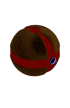
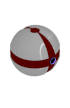
refactoring (lol)

Changed region(s): [[0.1429, 0.2222, 0.8571, 0.7222]]

diff --git a/main.py b/main.py
@@ -1,8 +1,6 @@
 # Import
 import pygame as pyg
 from pygame import Surface, joystick
-from pygame.sprite import Sprite, LayeredDirty, Group, LayeredUpdates
-from fps import Fps
 from constants import *
 
 def clear_callback(surf, rect):
@@ -13,50 +11,14 @@ def main():
     # Init module
     pyg.init()
     joystick.init()
-
-    # Get controller
-##    joysticks = [joystick.Joystick(x) for x in range(joystick.get_count())]
-##    try:
-##        controller = next(js for js in joysticks if "XBOX 360" in js.get_name())
-##    except StopIteration:
-##        raise RuntimeError("No XBOX 360 Controller detected")
-##    if not controller.get_init():
-##        controller.init()
-
-    # Init window
-    size_window = WINDOW_WIDTH,WINDOW_HEIGHT
-    screen = pyg.display.set_mode(size_window)#, FULLSCREEN)
-    ico = Surface((32,32))
-    pyg.display.set_icon(ico)
-    pyg.display.set_caption('Test')
-    background = pyg.image.load('background.jpg').convert()
-    background = pyg.transform.smoothscale(background, WINDOW_SIZE)
-    background.fill(WHITE)
-    screen.blit(background, background.get_rect())
-    pyg.display.flip()
-
     # Imports
-    from stage import Stage
-    from tiles import Tile
-    from player import Player
-
-    # Init clock
-    clock = pyg.time.Clock()
-
-    # Init groups
-    all_sprites = LayeredDirty()
-    players = Group()
-    Player.containers += players,
-    Fps.containers += all_sprites,
-    Tile.layer_container = all_sprites
-
-    # Init element
-    Stage("file.txt")
+    from Map import Map
+    # Init element, read the map, build the MapView
+    m = Map("file.txt")
     Fps(clock)
 
     # Infinite loop
     while True:
-
         # Get input
         for ev in pyg.event.get():
             if ev.type == pyg.QUIT or \
@@ -66,12 +28,14 @@ def main():
 
         # Do something
         #next(iter(players)).set_input()
+        
+        ActionHandeler.pushInput(input);
 
         # Clear sprites from screen
-        all_sprites.clear(screen, background)
+        m.vue.all_sprites.clear(screen, background)
 
         # Update sprites
-        all_sprites.update()
+        m.vue.all_sprites.update()
 
         # Draw sprites on screen
         dirty = all_sprites.draw(screen)
@@ -83,5 +47,5 @@ def main():
         clock.tick(30)
 
 
-# Call the "main" function if running this script
+ # Call the "main" function if running this script
 if __name__ == '__main__': main()

diff --git a/Map.py b/Map.py
@@ -1,0 +1,68 @@
+from xy import XY
+from MapVue import MapVue
+
+def parse(filename):
+    with open(filename) as f:
+        return [[int(x) for x in line.split(",")] for line in f]
+
+def add_border(mat):
+    res = [[-1] * (2 + len(mat[0]))]
+    for x in mat:
+        res.append([-1] + x + [-1])
+    res.append([-1] * (2 + len(mat[0])))
+    return res
+
+class Map:
+    dct = {-1: "borders",
+           1: "floors",
+           2: "goal1",
+           3: "goal2",
+           4: "p1",
+           5: "p2",
+           6: "blocks",
+           7: "hole",
+           8: "mirrorDU",
+           9: "mirrorUD",
+           10: "memory",
+           11: "p1Wall",
+           12: "p2Wall" }
+
+    def __init__(self, file_name):
+        self.vue = MapVue()
+
+        from Tiles import Block, Floor, Border, Tile
+
+        self.mat = add_border(parse(file_name))
+        self.width = Tile.nb_lines = len(self.mat)
+        self.height = len(self.mat[0])
+        self.blocks = []
+        self.floors = []
+        self.borders = []
+        self.p1 = []
+        self.p2 = []
+        for i, line in enumerate(self.mat):
+            for j, element in enumerate(line):
+                getattr(self, self.dct[element]).append((i,j))
+        self.p1 = self.p1[0]
+        self.p2 = self.p2[0]
+
+    def get_id(self, pos):
+        pos = XY(*pos)
+        return pos.x * self.width + pos.y
+
+
+# class Stage:
+#     def __init__(self, filename):
+#         self.board = Board(filename)
+#         for pos in self.board.blocks:
+#             Block(pos, self.board.get_id(pos))
+#         for pos in self.board.floors:
+#             Floor(pos, self.board.get_id(pos))
+#         for pos in self.board.borders:
+#             Border(pos, self.board.get_id(pos))
+#         args = 1, self.board.p1, self.board.get_id(self.board.p1)
+#         self.player1 = Player(*args)
+#         args = 2, self.board.p2, self.board.get_id(self.board.p2)
+#         self.player2 = Player(*args)
+
+

diff --git a/TileVue.py b/TileVue.py
@@ -5,7 +5,7 @@ from pygame.sprite import DirtySprite, Sprite
 
 from constants import *
 
-class Tile(DirtySprite):
+class TileVue(DirtySprite):
 
     width = 70
     layer_container = None
@@ -35,30 +35,30 @@ class Tile(DirtySprite):
         pos += self.width*self.nb_lines/2, 0
         return XY(*map(int,pos))
 
-class Block(Tile):
+class BlockVue(TileVue):
 
     ressource_name = "block.png"
-    ressource = Tile.resize_ressource(ressource_name)
+    ressource = TileVue.resize_ressource(ressource_name)
 
     def __init__(self, board_pos, board_id):
         self.board_pos = XY(*board_pos)
         super(Block, self).__init__(self.board_pos, board_id)
         self.image = self.ressource
 
-class Floor(Tile):
+class FloorVue(TileVue):
 
     ressource_name = "floor.png"
-    ressource = Tile.resize_ressource(ressource_name)
+    ressource = TileVue.resize_ressource(ressource_name)
 
     def __init__(self, board_pos, board_id):
         self.board_pos = XY(*board_pos)
         super(Floor, self).__init__(self.board_pos, board_id)
         self.image = self.ressource
 
-class Border(Tile):
+class BorderVue(TileVue):
 
     ressource_name = "border.png"
-    ressource = Tile.resize_ressource(ressource_name)
+    ressource = TileVue.resize_ressource(ressource_name)
 
     def __init__(self, board_pos, board_id):
         self.board_pos = XY(*board_pos)

diff --git a/Player.py b/Player.py
@@ -3,7 +3,7 @@ from pygame import Surface
 from pygame.sprite import Sprite, RenderUpdates, Group
 from constants import *
 from xy import XY
-from tiles import Tile
+from Tiles import Tile
 import os
 from itertools import takewhile, count, cycle
 
@@ -28,17 +28,17 @@ def animation(folder):
         return [Tile.resize_ressource(name) for name in names]
 
 
-class Player(Tile):
+class PlayerVue(Tile):
 
     containers = ()
     ressource_name = "red_player_se"
-    ressources = animation(ressource_name)
 
     def __init__(self, player_id, board_pos, board_id):
         self.board_pos = XY(*board_pos)
         super(Player, self).__init__(self.board_pos, board_id)
         self.dirty = 2
-        self.animation = cycle(self.ressources)
+        ressources = animation(self.ressource_name)
+        self.animation = cycle(ressources)
         self.image = next(self.animation)
         self.id = player_id
         self.routine = player_routine(self)

diff --git a/MapVue.py b/MapVue.py
@@ -1,0 +1,28 @@
+import pygame as pyg
+from pygame.sprite import Sprite, LayeredDirty, Group, LayeredUpdates
+from fps import Fps
+from constants import *
+from pygame import Surface
+
+class MapVue:
+    def __init__(self):
+        # Init clock
+        self.clock = pyg.time.Clock()
+
+        # Init groupsView
+        all_sprites = LayeredUpdates()
+        Fps.containers += (all_sprites,)
+
+        size_window = WINDOW_SIZE
+        screen = pyg.display.set_mode(size_window)#, FULLSCREEN)
+        ico = Surface((32,32))
+        pyg.display.set_icon(ico)
+        pyg.display.set_caption('Test')
+        background = pyg.image.load('background.jpg').convert()
+        background = pyg.transform.smoothscale(background, WINDOW_SIZE)
+        background.fill(BLACK)
+        screen.blit(background, background.get_rect())
+        pyg.display.flip()
+        from TileVue import TileVue
+
+        TileVue.layer_container = all_sprites

diff --git a/Tiles.py b/Tiles.py
@@ -1,0 +1,22 @@
+from TilesVue import BlockVue, FloorVue, BorderVue
+class Tile:
+    def __init__(self, x, y):
+        self.x = x
+        self.y = y
+        
+        self.vue = 0
+    
+class Block(Tile):
+    def __init__(self, x, y):
+        super(Block, self).__init__(x,y)
+        self.vue = BlockVue((self.x, self.y))
+
+class Floor(Tile):
+    def __init__(self, x, y):
+        super(Floor, self).__init__(x,y)
+        self.vue = FloorVue((self.x, self.y))
+
+class Border(Tile):
+    def __init__(self, x, y):
+        super(Floor, self).__init__(x,y)
+        self.vue = FloorVue((self.x, self.y))
